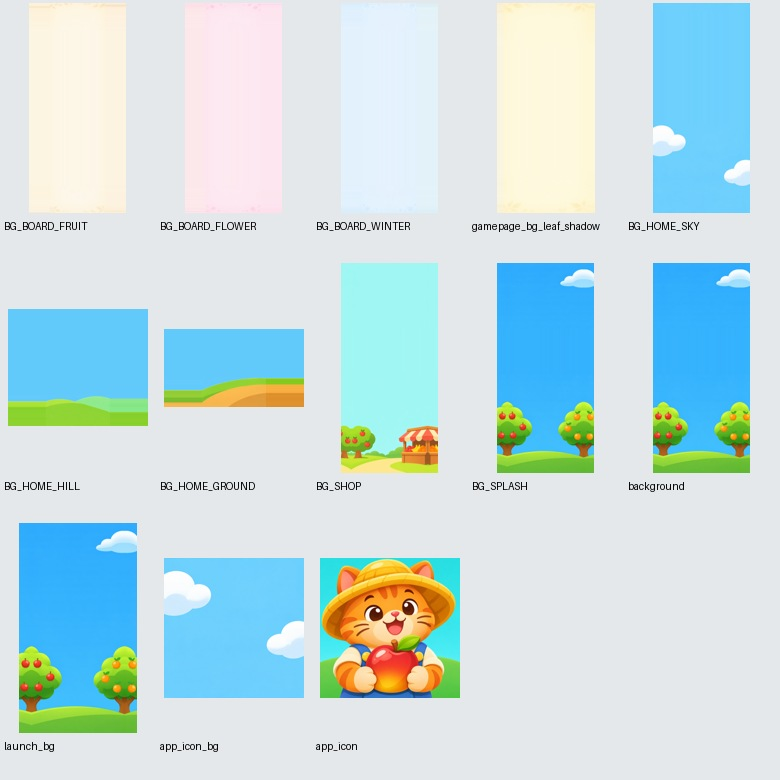
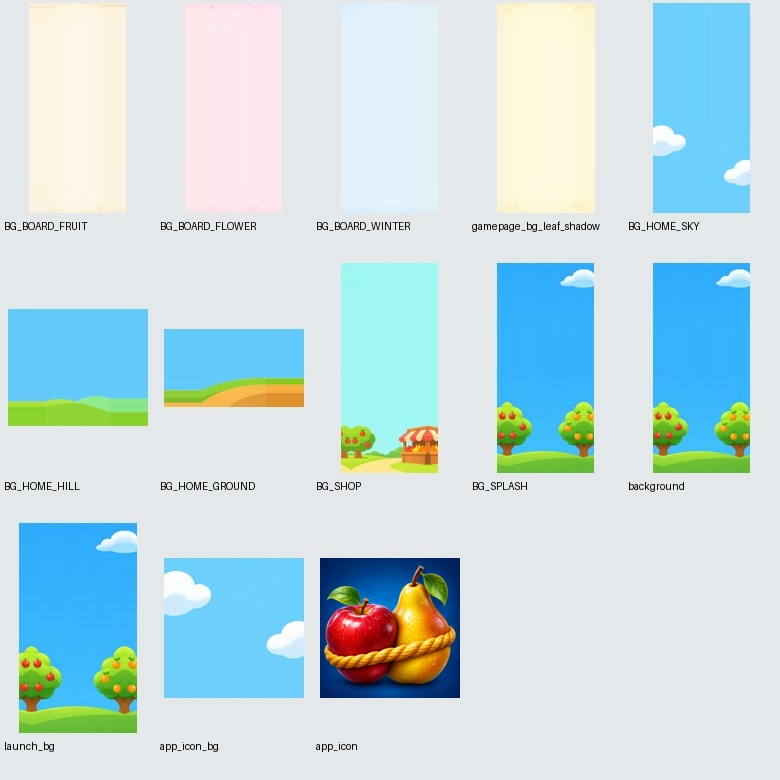
Correct Sweet Rope UI art against manifest and approved style

Changed region(s): [[0.4, 0.7077, 0.6154, 0.9231]]

diff --git a/Codex_Work/Asset_SRSP_v1/final_report.md b/Codex_Work/Asset_SRSP_v1/final_report.md
@@ -8,19 +8,25 @@
 
 ## C — Asset còn thiếu
 
-- Giao thêm 122 dòng từ danh sách 294 dòng chưa làm đầu đợt. Có nền Home, Rank, Daily Check-in, ảnh Store, sprite UI, hiệu ứng, bộ PNG tách lớp và atlas.
+- Giao thêm 127 dòng từ 294 dòng chưa làm và 5 dòng chờ logo đầu đợt. Có nền Home, Rank, Daily Check-in, ảnh Store, sprite UI, hiệu ứng, bộ PNG tách lớp và atlas.
 - Còn **172 dòng chưa làm** trong manifest.
   - P1, ảnh hoặc vector — 119.
   - P2, ảnh hoặc vector — 22.
   - P2, bộ lớp và motion — 31.
-- 0 dòng không làm được đang chờ PNG logo trong suốt đã chốt.
+- Đã bàn giao 5 mục logo, gồm 4 ảnh xuất và 36 lớp PNG cho hiệu ứng.
 
 ## D — Mockup
 
 - Đã dựng lại 81 màn tĩnh và 4 ảnh MOCK_* ở 1080 × 2340. Thay cúp mèo và giỏ giao trái cây, thêm nền Daily, căn lại IQ, nút Super Hard và hai màn Home.
-- Đã rà bảng hình thu nhỏ và mở riêng các màn đại diện. Logo trong mockup dùng chữ tạm. Chưa xác thực giao diện trong Unity hoặc chụp cảnh Godot chạy thật.
+- Đã rà bảng hình thu nhỏ và mở riêng các màn đại diện. 19 màn có vị trí logo dùng PNG Sweet Rope đã chốt. Chưa xác thực giao diện trong Unity hoặc chụp cảnh Godot chạy thật.
 
 ## E — Checker
 
-- Toàn manifest có **895 OK, 45 WARN, 172 FAIL**. Có 172 FAIL ở dòng chưa có asset và 0 FAIL ở các dòng chờ logo.
+- Toàn manifest có **895 OK, 45 WARN, 172 FAIL**. Có 172 FAIL ở dòng chưa có asset.
 - report_all.csv giữ nguyên kết quả của checker. warn_disposition.csv ghi từng cảnh báo cùng cách xử lý hoặc điểm cần kiểm tra.
+
+## Rà soát hình ảnh sau khi nhận logo
+
+- Đối chiếu hình minh họa đã chốt với manifest, khung alpha và vai trò của texture trong scene.
+- Đã sửa 6 asset. Khung chọn avatar có tâm trong suốt, panel xác nhận phục hồi viền xanh và ba huy chương dùng mặt kim loại đặc. Icon ứng dụng dùng quả và dây với chất liệu bám bộ Fruit đã chốt.
+- Checker riêng cho 6 asset ghi 6 OK, 0 WARN và 0 FAIL. Xem cặp trước/sau trong contact_sheets/round3_style_corrections.jpg. Chưa xác nhận phong cách của toàn bộ gói hoặc kiểm thử trực tiếp trong game.

diff --git a/Codex_Work/Asset_SRSP_v1/questions.md b/Codex_Work/Asset_SRSP_v1/questions.md
@@ -2,7 +2,7 @@
 
 - Flower dùng các loài và màu ghi trong manifest. Winter dùng bánh quy Noel tròn và phân biệt bằng hoa văn nổi đã ghi cho từng type.
 - Rank dùng Fruit Challenge và táo vàng. Giữ tên file Unity để bảo toàn tham chiếu, kể cả tên lịch sử có chữ Fish.
-- Mockup giữ khung 1080 × 2340 theo README, dùng chữ Sweet Rope tạm ở vị trí logo. Logo sản xuất chờ PNG trong suốt đã chốt.
+- Mockup giữ khung 1080 × 2340 theo README. Round 3b dùng PNG logo Sweet Rope đã chốt ở 19 màn có vị trí logo.
 - Home dùng bản tranh toàn màn ở lớp trời, cắt hai dải chồng lề cho đồi và đất. Dev cần đặt các lớp theo trục Y của nguồn chung trong Unity.
 - Các dòng kích thước ghi “Px: đề xuất” tiếp tục dùng giá trị trong manifest khi xuất trong lần này. Kiểm tra pivot, 9-slice và căn lề bằng scene Unity thật.
 
